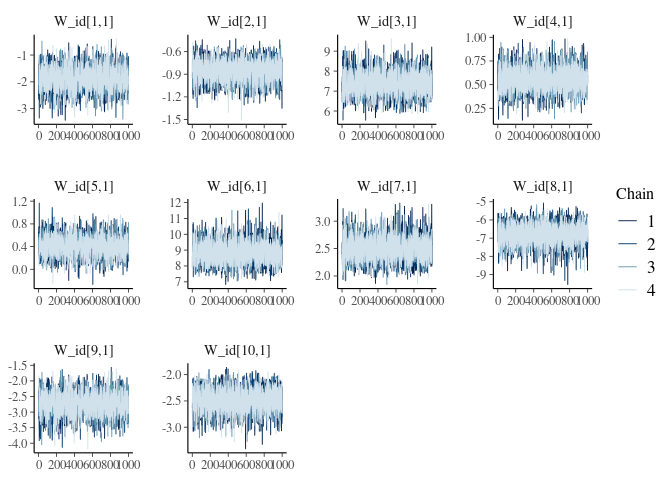
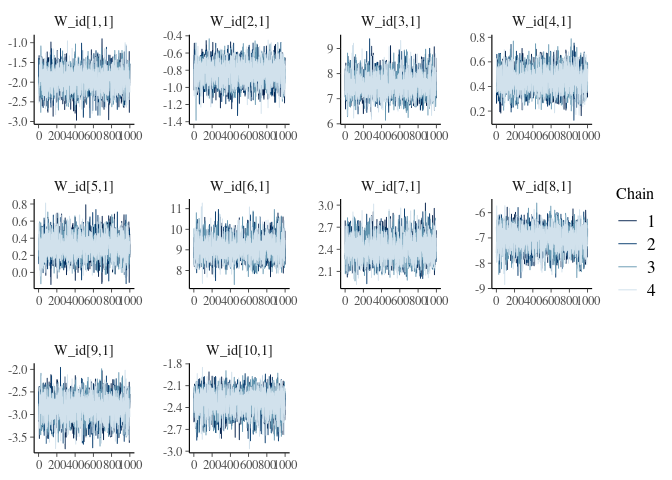
cool biscale plot

diff --git a/README.md b/README.md
@@ -144,6 +144,9 @@ advantages of the MCMC approach.
 
 ``` r
 library(ezpzmcmcpcpca)
+library(biscale)
+library(tidyverse)
+library(patchwork)
 
 set.seed(123)
 p = 10
@@ -165,34 +168,36 @@ W_rand = matrix(rnorm(p*k), ncol = k) %*% diag(c(2,.75)); W_rand
 
 cor_mat = trialr::rlkjcorr(1, p, 1);
 
-Y = MASS::mvrnorm(n = 500, mu = rep(0,p),
+Y = MASS::mvrnorm(n = 1000, mu = rep(0,p),
                   Sigma = cor_mat)
 
-contrastive_noise = MASS::mvrnorm(n = 500,
+contrastive_noise = MASS::mvrnorm(n = 1000,
                                   Sigma = diag(k),
                                   mu = rep(0,k))
 
-X = MASS::mvrnorm(n = 500, Sigma = cor_mat,
+contrastive_variation = (contrastive_noise %*% t(W_rand))
+
+X = MASS::mvrnorm(n = 1000, Sigma = cor_mat,
                   mu = rep(0,p)) +
-  (contrastive_noise %*% t(W_rand))
+  contrastive_variation
 
 
 res_mle = pcpca_mle(X, Y, .85, 2); res_mle
 #> $sigma2_mle
-#> [1] 0.002039828
+#> [1] 0.001184855
 #> 
 #> $W_mle
 #>              [,1]          [,2]
-#>  [1,] -0.09051975  0.1441503495
-#>  [2,] -0.04124558  0.0224530175
-#>  [3,]  0.35602831 -0.0736810563
-#>  [4,]  0.02689480 -0.0151457993
-#>  [5,]  0.02015256 -0.0459358586
-#>  [6,]  0.42501649  0.0554328880
-#>  [7,]  0.11986501  0.0002425385
-#>  [8,] -0.32642680 -0.0951041155
-#>  [9,] -0.13221252  0.1036616262
-#> [10,] -0.11940364 -0.0051256520
+#>  [1,] -0.06325072  0.0952025428
+#>  [2,] -0.02708875  0.0281103001
+#>  [3,]  0.24924615 -0.0406857222
+#>  [4,]  0.01496209 -0.0037119577
+#>  [5,]  0.01005678 -0.0359703063
+#>  [6,]  0.29977329  0.0305903834
+#>  [7,]  0.07953591 -0.0006342779
+#>  [8,] -0.23167991 -0.0650611589
+#>  [9,] -0.09403848  0.0733035177
+#> [10,] -0.07706104 -0.0005372498
 res_mcmc = pcpca_mcmc(X, Y, .85, 2, 
                       mle_est = res_mle,
                       chains = 4,
@@ -201,18 +206,18 @@ res_mcmc = pcpca_mcmc(X, Y, .85, 2,
 
 res_mcmc$summary(c("sigma2", "W_id"))
 #> # A tibble: 21 × 10
-#>    variable    mean median     sd    mad     q5    q95  rhat ess_bulk ess_tail
-#>    <chr>      <num>  <num>  <num>  <num>  <num>  <num> <num>    <num>    <num>
-#>  1 sigma2     1.05   1.05  0.0624 0.0615  0.950  1.16   1.00    3895.    2901.
-#>  2 W_id[1,1] -1.87  -1.87  0.430  0.420  -2.59  -1.16   1.00    3050.    2729.
-#>  3 W_id[2,1] -0.859 -0.854 0.139  0.138  -1.09  -0.634  1.00    4114.    3269.
-#>  4 W_id[3,1]  7.38   7.36  0.583  0.574   6.48   8.38   1.00    3821.    2973.
-#>  5 W_id[4,1]  0.557  0.554 0.125  0.123   0.360  0.773  1.00    5401.    3068.
-#>  6 W_id[5,1]  0.415  0.412 0.172  0.168   0.141  0.704  1.00    3643.    2520.
-#>  7 W_id[6,1]  8.81   8.77  0.666  0.641   7.80  10.0    1.00    4101.    2889.
-#>  8 W_id[7,1]  2.48   2.47  0.213  0.212   2.16   2.85   1.00    4171.    3364.
-#>  9 W_id[8,1] -6.76  -6.72  0.565  0.553  -7.75  -5.91   1.00    4032.    2933.
-#> 10 W_id[9,1] -2.74  -2.73  0.362  0.363  -3.34  -2.16   1.00    3398.    2909.
+#>    variable    mean median     sd    mad      q5    q95  rhat ess_bulk ess_tail
+#>    <chr>      <num>  <num>  <num>  <num>   <num>  <num> <num>    <num>    <num>
+#>  1 sigma2     1.21   1.21  0.0495 0.0494  1.13    1.29   1.00    3605.    2629.
+#>  2 W_id[1,1] -1.93  -1.92  0.290  0.284  -2.41   -1.47   1.00    3888.    3088.
+#>  3 W_id[2,1] -0.823 -0.820 0.126  0.128  -1.03   -0.625  1.00    4458.    3471.
+#>  4 W_id[3,1]  7.57   7.53  0.444  0.435   6.88    8.31   1.00    3856.    2818.
+#>  5 W_id[4,1]  0.454  0.454 0.0914 0.0925  0.305   0.606  1.00    4960.    3249.
+#>  6 W_id[5,1]  0.309  0.308 0.133  0.130   0.0928  0.528  1.00    3844.    3277.
+#>  7 W_id[6,1]  9.10   9.08  0.523  0.513   8.28    9.99   1.00    3920.    2899.
+#>  8 W_id[7,1]  2.41   2.40  0.162  0.161   2.16    2.69   1.00    3910.    3279.
+#>  9 W_id[8,1] -7.03  -7.01  0.443  0.437  -7.79   -6.34   1.00    4068.    2774.
+#> 10 W_id[9,1] -2.86  -2.85  0.268  0.263  -3.32   -2.44   1.00    3892.    3041.
 #> # ℹ 11 more rows
 
 # Look at the first component
@@ -230,12 +235,40 @@ pal_fun = colorRampPalette(c('grey', 'red'))
 contrast_cols = pal_fun(20)[cut((contrastive_magnitude / max(contrastive_magnitude)),
                                 breaks = 20) |> as.numeric()]
 
-rbind(X) %*% matrix(res_mcmc$summary("W_id")$mean, ncol = 2) |> 
-  plot(xlab = "", ylab = "",
-       main = "10D data projected to first two contrastive axes",
-       sub = "Points colored by magnitude of true contrastive noise",
-       col = contrast_cols, 
-       pch = 19)
+plot_data = (rbind(X) %*% matrix(res_mcmc$summary("W_id")$mean, ncol = 2)) |> 
+  as_tibble() |>
+  set_names(c('x', 'y')) |> 
+  bind_cols(contrastive_noise |> as_tibble()) |> 
+  mutate(across(V1:V2, abs))
+#> Warning: The `x` argument of `as_tibble.matrix()` must have unique column names if
+#> `.name_repair` is omitted as of tibble 2.0.0.
+#> ℹ Using compatibility `.name_repair`.
+#> This warning is displayed once every 8 hours.
+#> Call `lifecycle::last_lifecycle_warnings()` to see where this warning was
+#> generated.
+
+bivar_plot = plot_data |>
+  mutate(bc = biscale::bi_class(plot_data ,
+                                x = V1,
+                                y = V2,
+                                dim = 4, 
+                                style = 'equal')$bi_class) |> 
+  ggplot(aes(x,y)) +
+  geom_point(aes(color = bc), show.legend = FALSE) + 
+  bi_scale_color(pal = 'BlueOr', 
+                 dim = 4)  +
+  labs(x = "estimated_cPC1",
+       y = "estimated_cPC2") + 
+  theme_light()
+
+bivar_leg = bi_legend('BlueOr', dim = 4,
+                      xlab = 'True cPC1', 
+                      ylab = 'True cPC2')  + 
+  theme(plot.background = element_blank(), 
+        panel.background = element_blank(),
+        text = element_text(size = 8))
+
+bivar_plot + inset_element(bivar_leg, -.05, 0, .35, .35)
 ```
 
 <img src="man/figures/README-unnamed-chunk-3-2.png" width="100%" />
